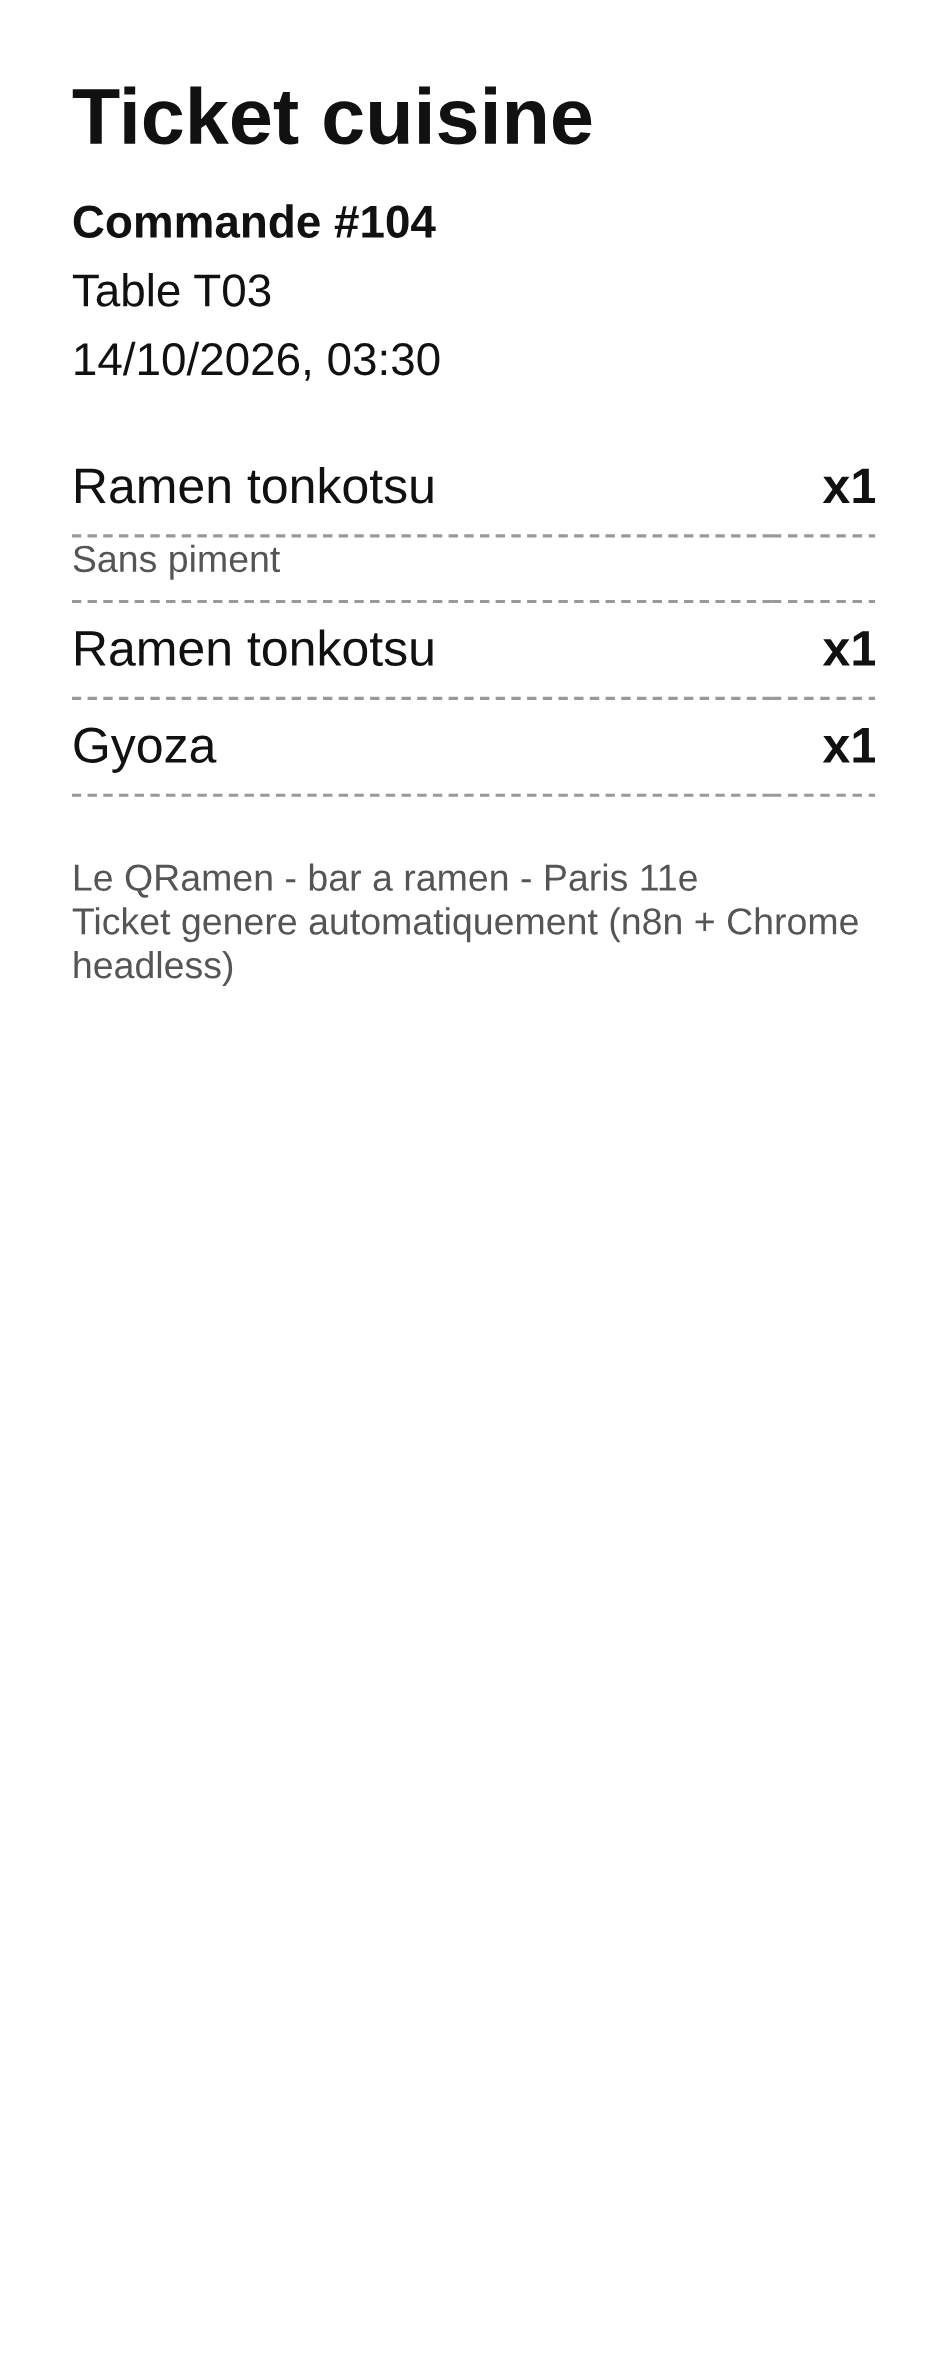
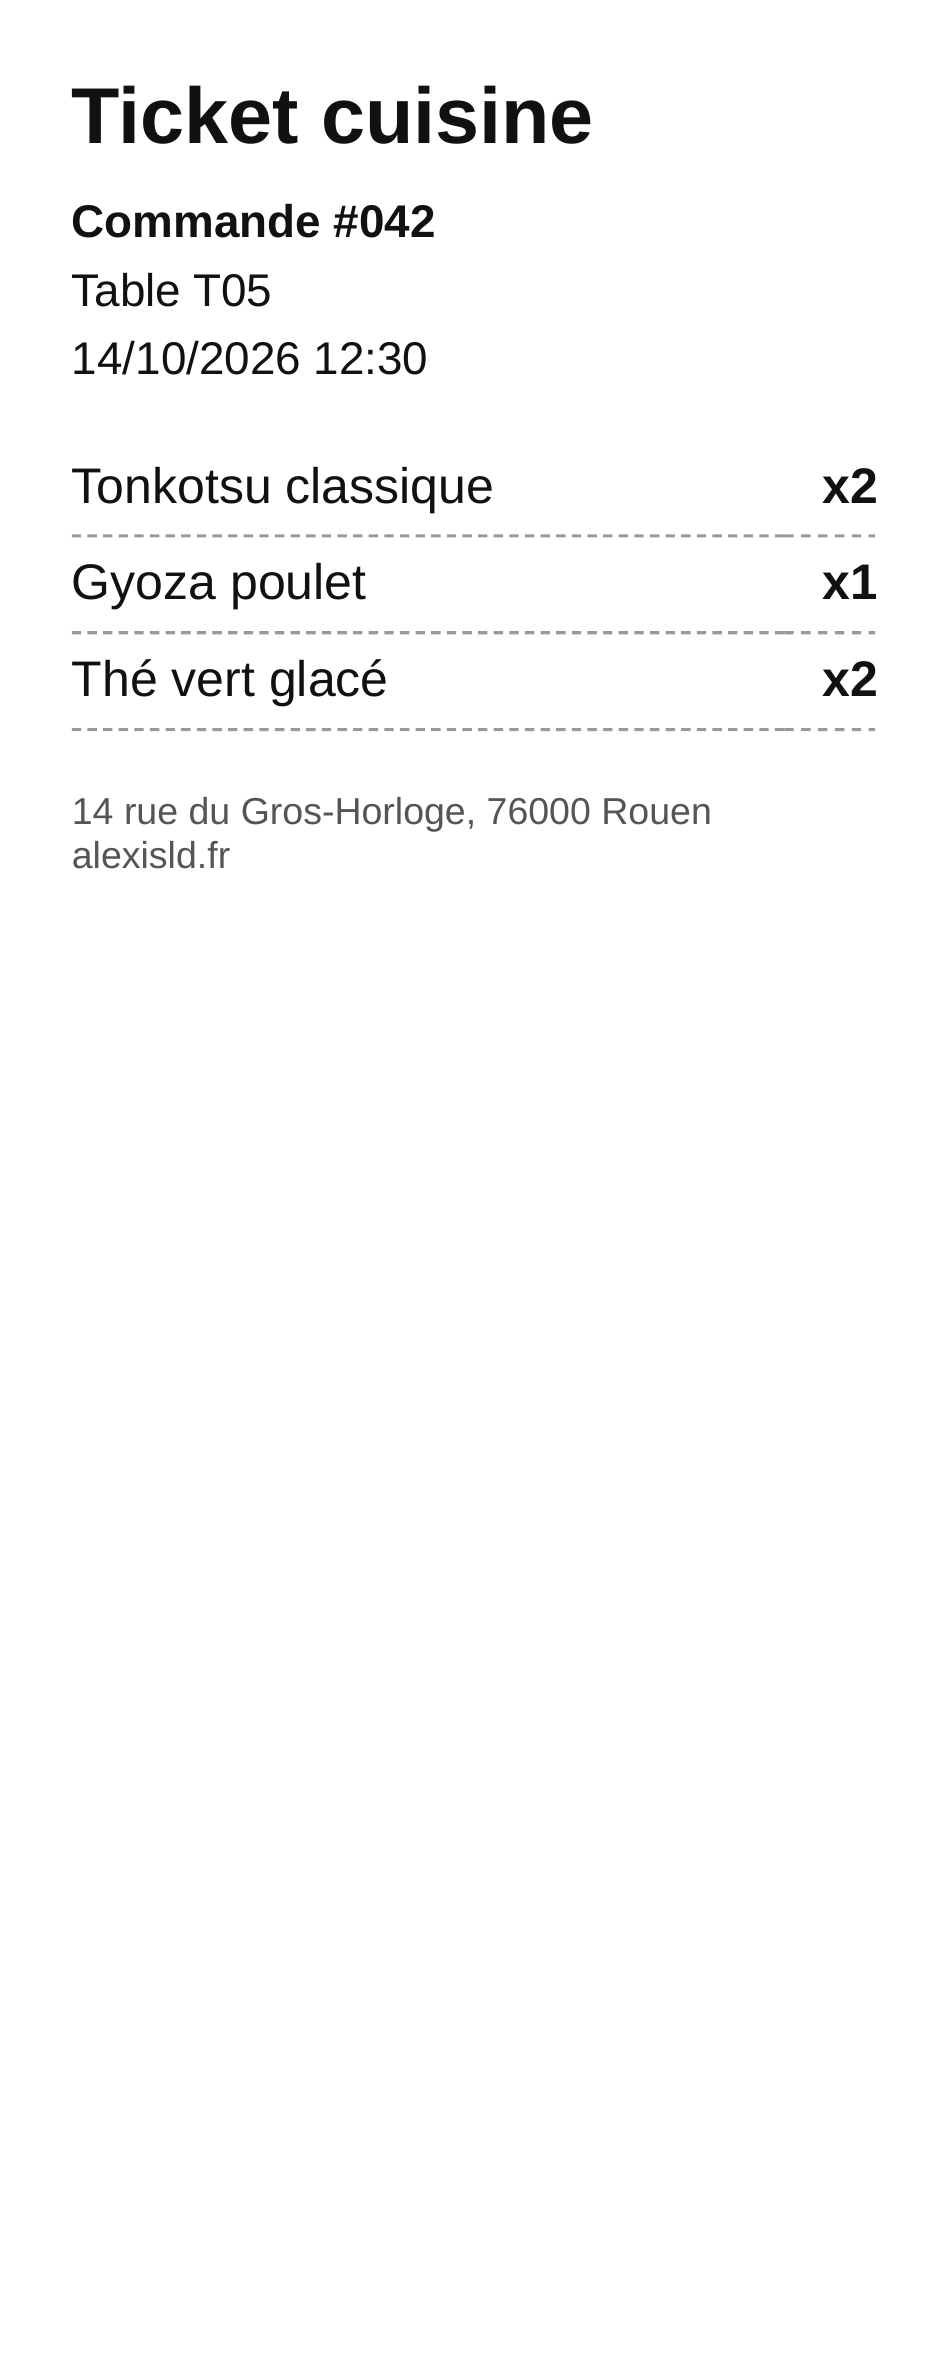
Retire les mentions techniques et crédite alexisld.fr

diff --git a/public/index.html b/public/index.html
@@ -3,7 +3,7 @@
 <body class="landing"><main class="landing-card" id="landing"><nav class="restaurant-switch" aria-label="Choisir un restaurant"><a data-concept="QRamen" href="https://qramen.ledeunf.fr/">Le QRamen</a><a data-concept="QRoque" href="https://croq.ledeunf.fr/">QRoque Monsieur</a></nav>
 <div class="landing-top"><span class="brand-mark"><img id="brand-logo" src="assets/marque-qramen.svg" alt=""><span class="eyebrow" id="eyebrow">BAR À RAMEN · ROUEN 11<sup>e</sup></span></span></div>
 <div class="landing-copy"><p class="kicker" id="landing-kicker">一杯のよろこび <span>·</span> ROUEN</p><h1 id="landing-title">Le<br><em>QRamen</em></h1><p class="baseline" id="landing-baseline">Scannez. Commandez.<br><strong>Slurpez.</strong></p><div class="landing-actions"><a class="button button-primary" id="menu-link" href="menu.html">Voir le menu <span aria-hidden="true">↗</span></a><a class="button button-quiet" href="menu.html?table=T05">Démo table 5 <span aria-hidden="true">→</span></a></div></div>
-<div class="landing-bottom" id="landing-bottom"><div><span class="label">NOUS TROUVER</span><p>14 rue du Gros-Horloge<br>76000 Rouen</p></div><div><span class="label">À TABLE</span><p>Tous les jours<br>12h–14h30 · 19h–22h30</p></div><span class="landing-jp" aria-hidden="true">ラーメン</span></div><footer><a class="qr-admin-link" href="qr.html">QR des tables</a><br>Exercice de formation — restaurant fictif</footer></main>
+<div class="landing-bottom" id="landing-bottom"><div><span class="label">NOUS TROUVER</span><p>14 rue du Gros-Horloge<br>76000 Rouen</p></div><div><span class="label">À TABLE</span><p>Tous les jours<br>12h–14h30 · 19h–22h30</p></div><span class="landing-jp" aria-hidden="true">ラーメン</span></div><footer><a class="qr-admin-link" href="qr.html">QR des tables</a><br>Site réalisé par alexisld.fr</footer></main>
 <script>
 (()=>{const p=new URLSearchParams(location.search),concept=p.has('concept')?p.get('concept'):(location.hostname.includes('croq')?'QRoque':'QRamen'),q=concept==='QRoque',name=q?'QRoque Monsieur':'Le QRamen';document.body.classList.toggle('theme-qroque',q);document.title=name+' — commande à table';document.querySelector('meta[name="theme-color"]').content=q?'#F3EDE1':'#14161A';document.querySelector('#brand-logo').src='assets/marque-'+(q?'croque':'qramen')+'.svg';document.querySelector('#site-favicon').href='assets/favicon-'+(q?'croque':'qramen')+'.svg';document.querySelector('#eyebrow').textContent=q?'CROQUE-MONSIEUR · ROUEN':'BAR À RAMEN · ROUEN';document.querySelector('#landing-title').innerHTML=q?'QRoque<br><em>Monsieur</em>':'Le<br><em>QRamen</em>';document.querySelector('#landing-kicker').innerHTML=q?'LE BONHEUR ENTRE DEUX TRANCHES <span>·</span> ROUEN':'一杯のよろこび <span>·</span> ROUEN';document.querySelector('#landing-baseline').innerHTML=q?'Du croustillant, du fondant.<br><strong>Du fait maison.</strong>':'Scannez. Commandez.<br><strong>Slurpez.</strong>';if(q){document.querySelector('#landing-bottom').innerHTML='<div><span class="label">LE COMPTOIR</span><p>QRoque Monsieur<br>Rouen</p></div><div><span class="label">À TABLE</span><p>Tous les jours<br>12h–14h30 · 19h–22h30</p></div><span class="landing-jp" aria-hidden="true">CROQUE</span>';document.querySelector('.landing-card').classList.add('landing-qroque')}const ml=document.querySelector('#menu-link');ml.href='menu.html'+location.search;document.querySelectorAll('.restaurant-switch a').forEach(a=>{const active=a.dataset.concept===concept;if(active)a.setAttribute('aria-current','page');else a.removeAttribute('aria-current');const target=new URL(a.href);for(const [k,v] of p)if(k==='table')target.searchParams.set(k,v);a.href=target.href})})();
 </script></body></html>

diff --git a/outils/workflow-addition.py b/outils/workflow-addition.py
@@ -22,7 +22,7 @@ return [{ json: { ...$json, formula: ids.length ? 'OR(' + ids.map(i => \"RECORD_
 CODE_ADDITION = """const cmd = $('Commande').first().json.records[0];
 const lignes = $('Lire lignes').first().json.records || [];
 const rows = lignes.map(l => '<tr><td>' + (l.fields.Designation || l.fields.Ligne || '') + '</td><td class="prix">' + Number(l.fields['Sous-total'] || 0).toFixed(2) + ' EUR</td></tr>').join('');
-const html = '<!doctype html><meta charset="utf-8"><style>body{font-family:Helvetica,Arial,sans-serif;padding:26px;color:#222}h1{margin:0 0 4px;font-size:22px}.petit{color:#666;margin:0 0 18px;font-size:12px}table{width:100%;border-collapse:collapse;font-size:13px}td{padding:6px 0;border-bottom:1px solid #eee}.prix{text-align:right}.total td{font-weight:700;font-size:15px;border-top:2px solid #222;border-bottom:0}</style><h1>Le QRamen</h1><p class="petit">Addition - commande no ' + cmd.fields.Numero + '</p><table>' + rows + '<tr class="total"><td>Total</td><td class="prix">' + Number(cmd.fields.Total || 0).toFixed(2) + ' EUR</td></tr></table>';
+const html = '<!doctype html><meta charset="utf-8"><style>body{font-family:Helvetica,Arial,sans-serif;padding:26px;color:#222}h1{margin:0 0 4px;font-size:22px}.petit{color:#666;margin:0 0 18px;font-size:12px}table{width:100%;border-collapse:collapse;font-size:13px}td{padding:6px 0;border-bottom:1px solid #eee}.prix{text-align:right}.total td{font-weight:700;font-size:15px;border-top:2px solid #222;border-bottom:0}.pied{margin-top:24px;color:#666;font-size:11px;line-height:1.5}</style><h1>Le QRamen</h1><p class="petit">Addition - commande no ' + cmd.fields.Numero + '</p><table>' + rows + '<tr class="total"><td>Total</td><td class="prix">' + Number(cmd.fields.Total || 0).toFixed(2) + ' EUR</td></tr></table><div class="pied">14 rue du Gros-Horloge, 76000 Rouen<br>alexisld.fr</div>';
 return [{ json: { html, nom: 'addition-' + cmd.fields.Numero, id: cmd.id, numero: cmd.fields.Numero } }];"""
 print("briques ecrites")
 

diff --git a/outils/workflows.py b/outils/workflows.py
@@ -51,7 +51,7 @@ td{padding:1.6mm 0;border-bottom:1px dashed #999}
 <h1>Ticket cuisine</h1>
 <div class="meta"><b>Commande #${numero}</b><br>Table ${body.table}<br>${new Date().toLocaleString('fr-FR')}</div>
 <table>${lignes.map(l => `<tr><td>${l.nom}</td><td class="q">x${l.q}</td></tr>`).join('')}</table>
-<div class="pied">Le QRamen - bar a ramen - Paris 11e<br>Ticket genere automatiquement (n8n + Chrome headless)</div>
+<div class="pied">14 rue du Gros-Horloge, 76000 Rouen<br>alexisld.fr</div>
 </body></html>`;
 return [{ json: { html, id: cmd.id, numero } }];"""
 

diff --git a/outils/chevalets-qroque.py b/outils/chevalets-qroque.py
@@ -18,6 +18,7 @@ def qr_data(url, taille=1200):
 def carte(numero, image, format_="a5"):
     pied = (f"Table {numero:02d} · commandez depuis votre téléphone,<br>on apporte tout à table."
             if numero else "Commandez depuis votre téléphone,<br>on apporte tout à table.")
+    pied += "<br>14 rue du Gros-Horloge, 76000 Rouen<br>alexisld.fr"
     return f"""
 <div class="carte {format_}">
   <div class="marque"><b>QR</b>oque Monsieur</div>

diff --git a/RAPPORT-PIED.md b/RAPPORT-PIED.md
@@ -1,0 +1,17 @@
+# Rapport — pieds et crédit alexisld.fr
+
+## Modifications
+
+- Ticket cuisine et ticket d’addition : adresse `14 rue du Gros-Horloge, 76000 Rouen` et crédit `alexisld.fr` ; les mentions techniques ont été retirées.
+- Modèle des chevalets QRoque : ajout de la même adresse et du crédit.
+- Accueil : remplacement de la mention de formation par `Site réalisé par alexisld.fr`.
+- Captures d’accueil QRamen et QRoque régénérées pour retirer l’ancienne mention de formation.
+- `docs/captures/01-bon-de-commande.png` régénérée après un POST au service PDF local, puis rendue depuis son PDF en PNG à 300 dpi. Dimensions : 946 × 2363 px, correspondant à 80 × 200 mm. L’OCR confirme l’adresse et le crédit, sans mention technique.
+
+## Vérifications
+
+- `bash outils/publier-workflows.sh` : publication terminée avec succès ; les cinq workflows ont été importés, publiés et le conteneur n8n redémarré.
+- Accueils `qramen.ledeunf.fr` et `croq.ledeunf.fr` : HTTP 200, le HTML servi contient le nouveau crédit et plus l’ancienne mention.
+- Webhooks : depuis le conteneur local n8n, menu répond HTTP 200. Commande et addition ont répondu HTTP 500 aux requêtes de contrôle volontairement invalides (`{}` et numéro inexistant), ce qui confirme que les routes actives reçoivent les requêtes, sans créer de commande ni modifier une addition.
+- Les requêtes vers les trois webhooks via le domaine public ont été bloquées par Cloudflare (HTTP 403, code 1010) depuis cet environnement ; leur réponse publique n’a donc pas pu être contrôlée ici.
+- OCR des captures dans `docs/captures/` : aucune mention « n8n », « Chrome headless », « exercice de formation » ou « restaurant fictif » ne subsiste.
